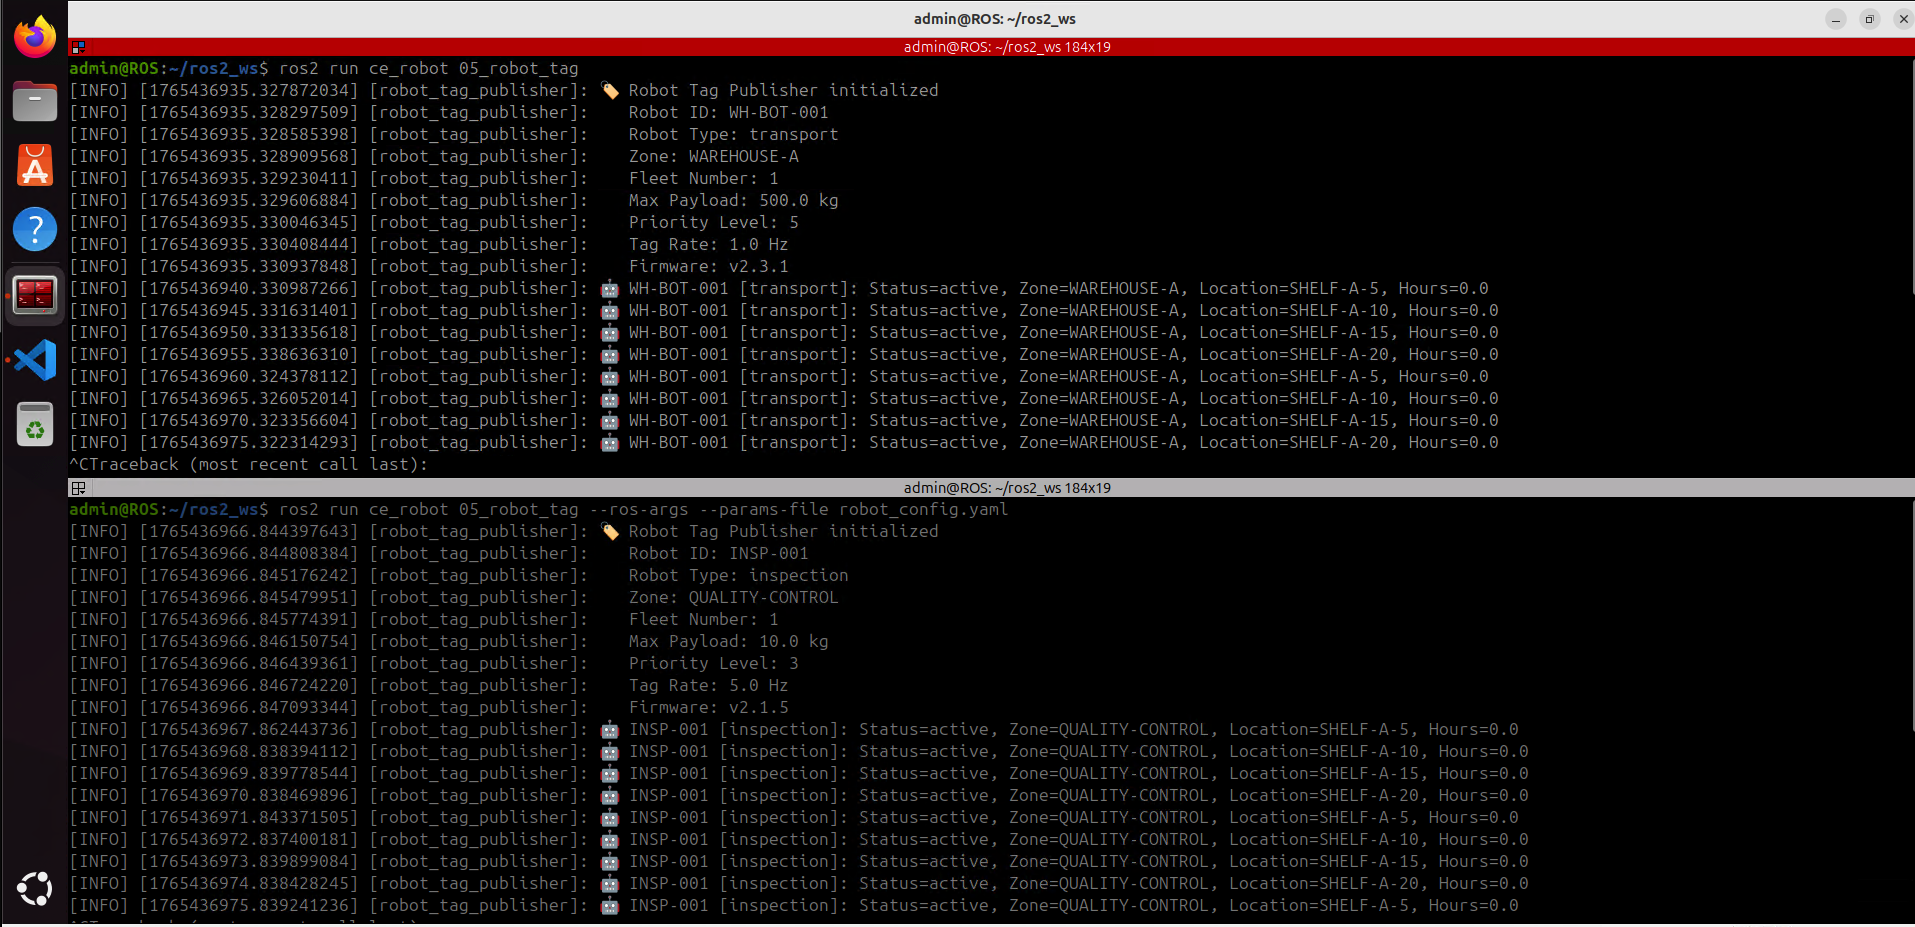
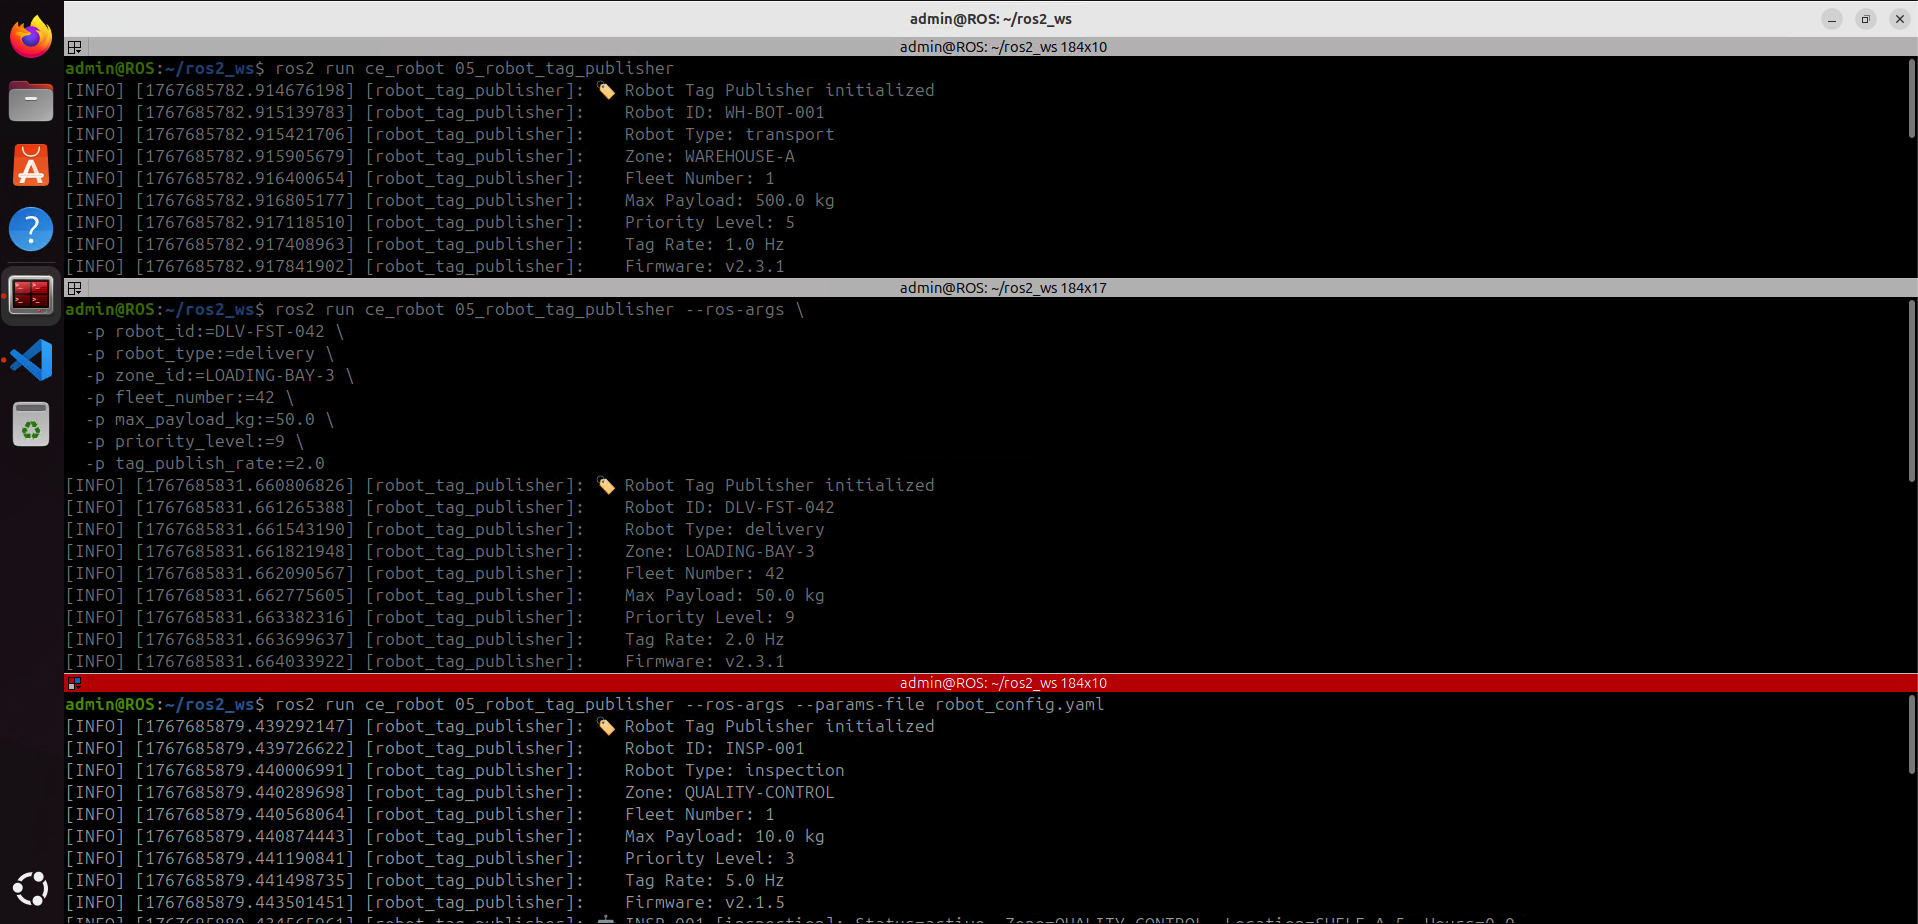
fix bad cmd

Changed region(s): [[0.0, 0.0, 1.0, 1.0]]

diff --git a/05_Parameters/Readme.md b/05_Parameters/Readme.md
@@ -213,23 +213,26 @@ ament_package()
 <package format="3">
   <name>ce_robot_interfaces</name>
   <version>0.0.0</version>
-  <description>Custom message and service interfaces for CE Robot</description>
-  <maintainer email="student@ksu.ac.th">Student</maintainer>
-  <license>Apache License 2.0</license>
+  <description>TODO: Package description</description>
+  <maintainer email="admin@todo.todo">admin</maintainer>
+  <license>TODO: License declaration</license>
 
   <buildtool_depend>ament_cmake</buildtool_depend>
-  <buildtool_depend>rosidl_default_generators</buildtool_depend>
 
-  <depend>builtin_interfaces</depend>
+  <test_depend>ament_lint_auto</test_depend>
+  <test_depend>ament_lint_common</test_depend>
 
+  <depend>std_msgs</depend>
+  
+  <build_depend>rosidl_default_generators</build_depend>
   <exec_depend>rosidl_default_runtime</exec_depend>
-
   <member_of_group>rosidl_interface_packages</member_of_group>
-
+  
   <export>
     <build_type>ament_cmake</build_type>
   </export>
 </package>
+
 ```
 
 ### **Build Message Package**
@@ -721,7 +724,7 @@ setup(
     tests_require=['pytest'],
     entry_points={
         'console_scripts': [
-            "05_robot_tag_param = ce_robot.robot_tag_param_pub:main",
+            "05_robot_tag_publisher = ce_robot.robot_tag_publisher:main",
         ],
     },
 )
@@ -773,7 +776,7 @@ Run the node with built-in default values:
 
 **Terminal 1:**
 ```bash
-ros2 run ce_robot 05_robot_tag_param
+ros2 run ce_robot 05_robot_tag_publisher
 ```
 
 **Expected Output:**
@@ -796,7 +799,7 @@ Override parameters directly from the command line:
 
 **Terminal 1:**
 ```bash
-ros2 run ce_robot 05_robot_tag_param --ros-args \
+ros2 run ce_robot 05_robot_tag_publisher --ros-args \
   -p robot_id:=DLV-FST-042 \
   -p robot_type:=delivery \
   -p zone_id:=LOADING-BAY-3 \
@@ -823,6 +826,12 @@ ros2 run ce_robot 05_robot_tag_param --ros-args \
 
 Create a configuration file for reusable parameter sets.
 
+**Directory Structure:**
+```
+~/ros2_ws
+    └── robot_config.yaml
+```
+
 **Create file: robot_config.yaml**
 ```yaml
 robot_tag_publisher:
@@ -841,7 +850,7 @@ robot_tag_publisher:
 
 **Run with parameter file:**
 ```bash
-ros2 run ce_robot 05_robot_tag_param --ros-args --params-file robot_config.yaml
+ros2 run ce_robot 05_robot_tag_publisher --ros-args --params-file robot_config.yaml
 ```
 
 **Expected Output:**
